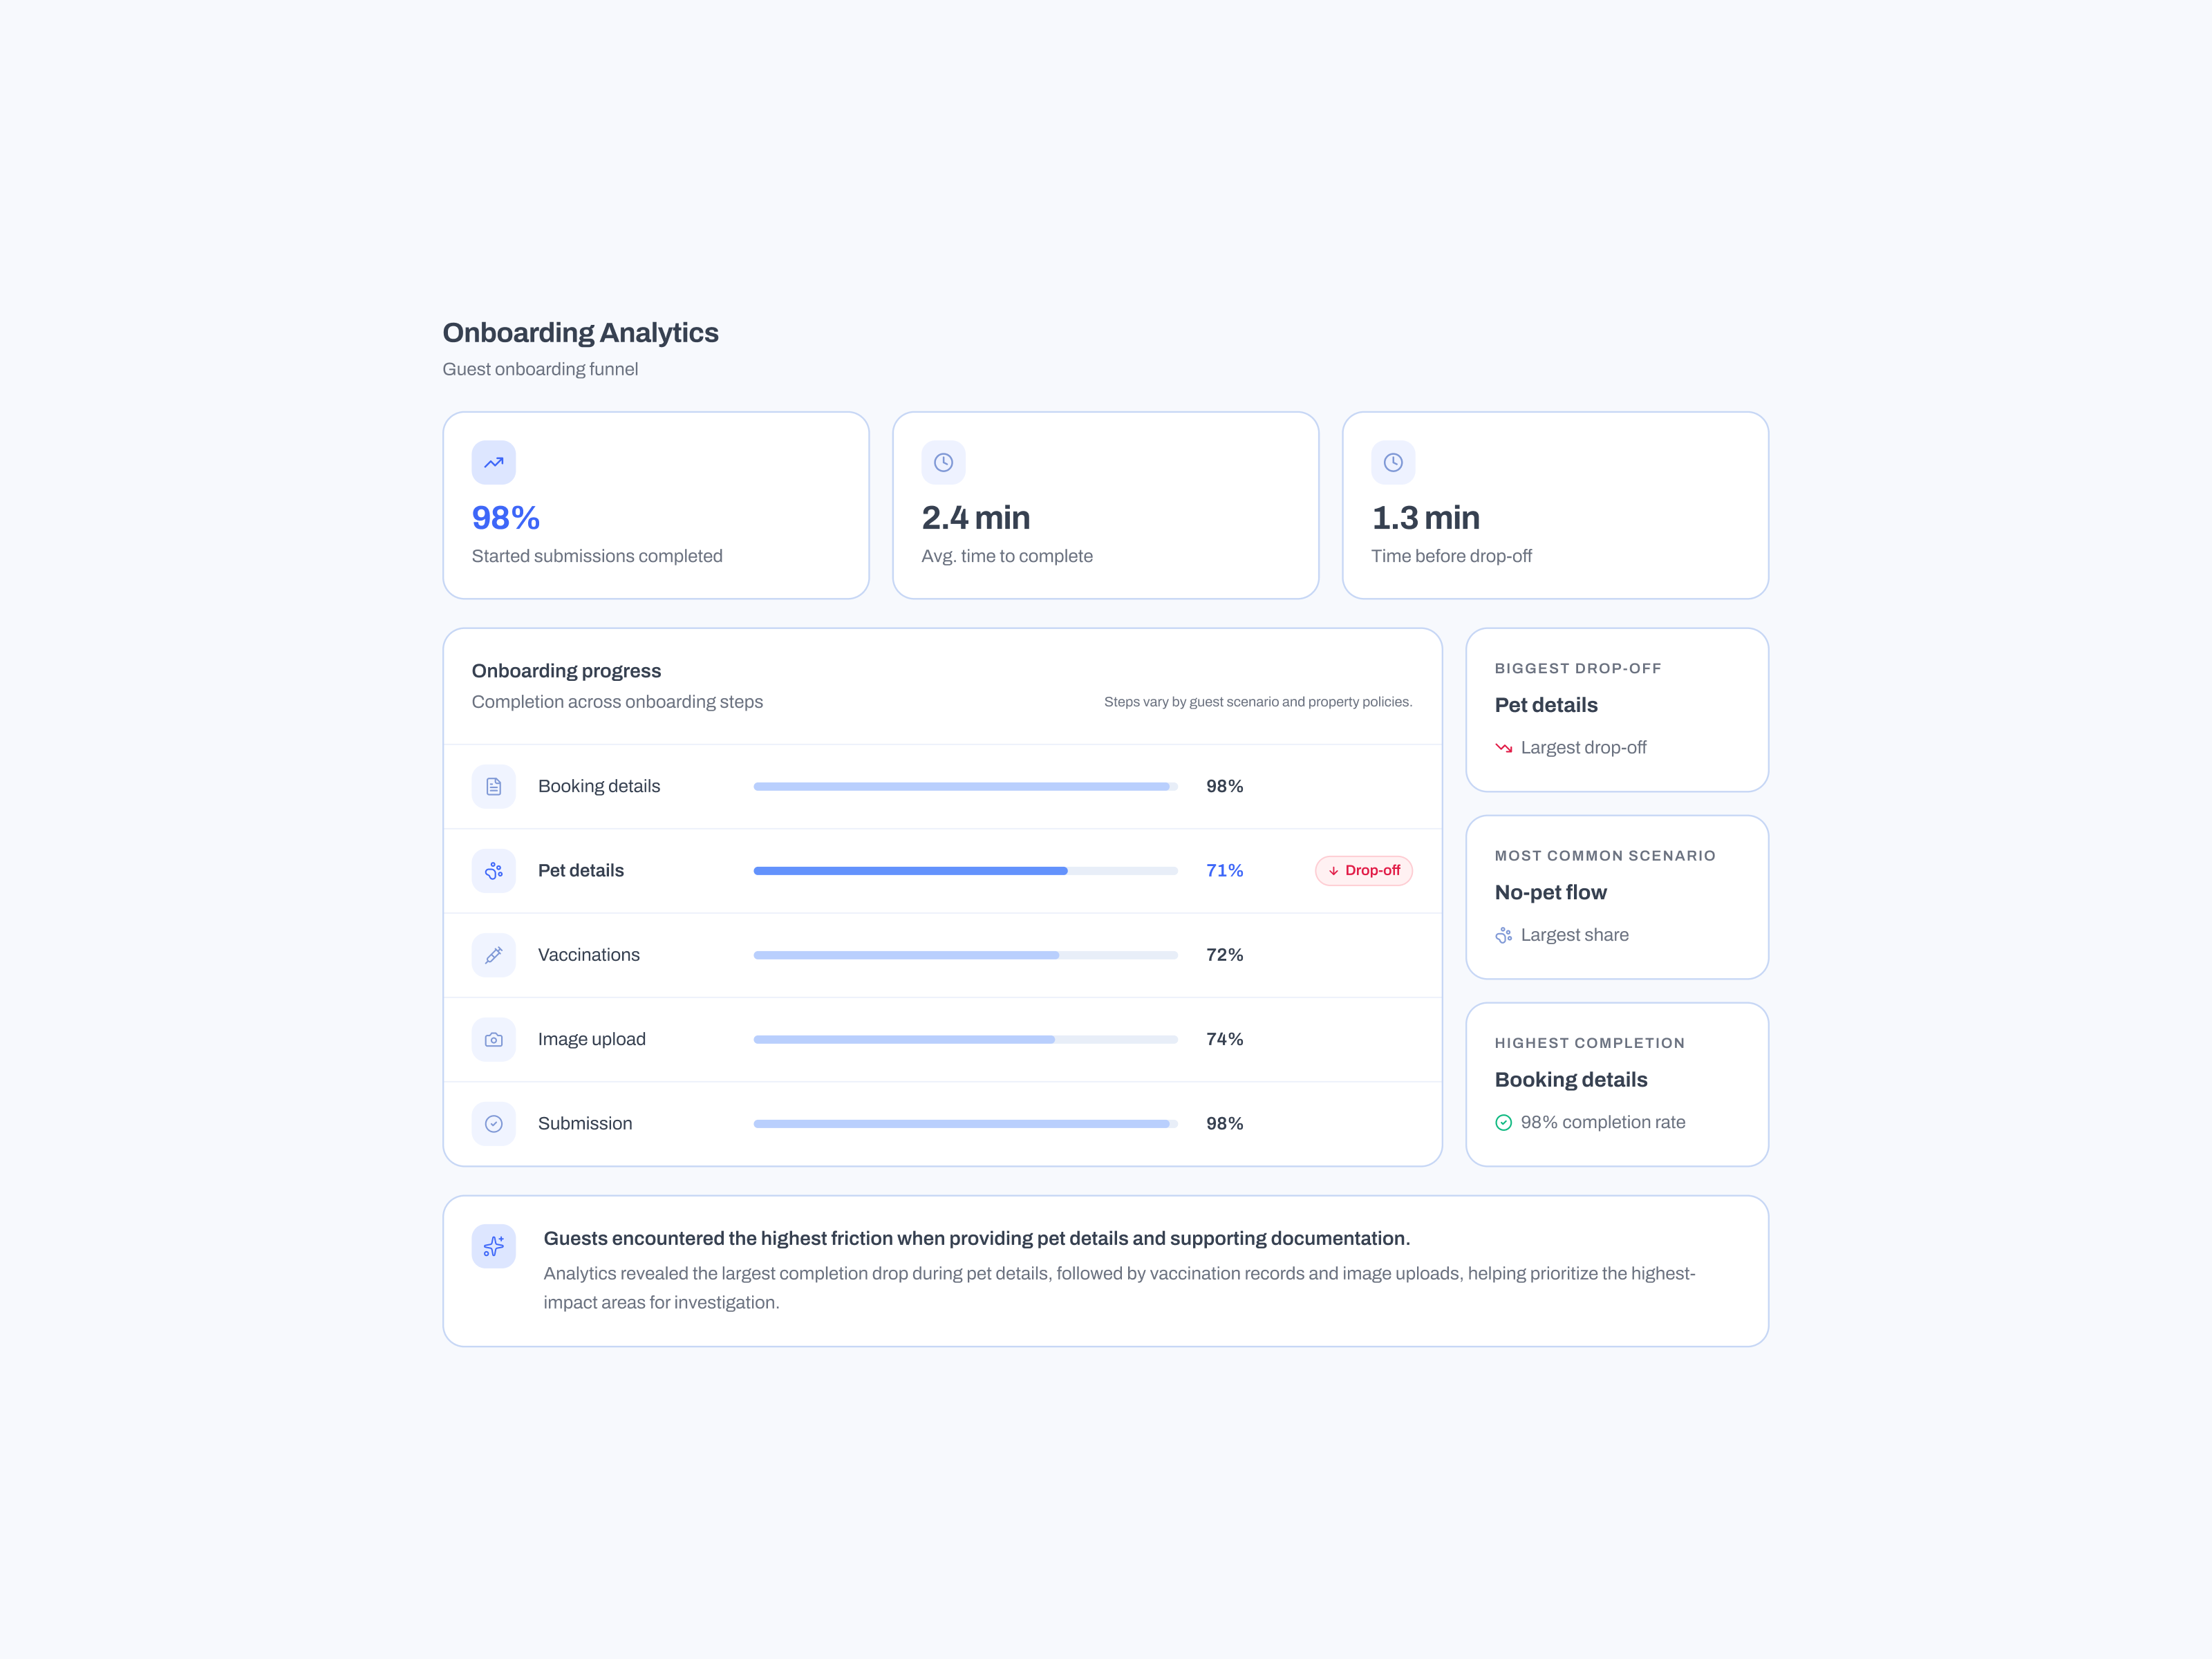
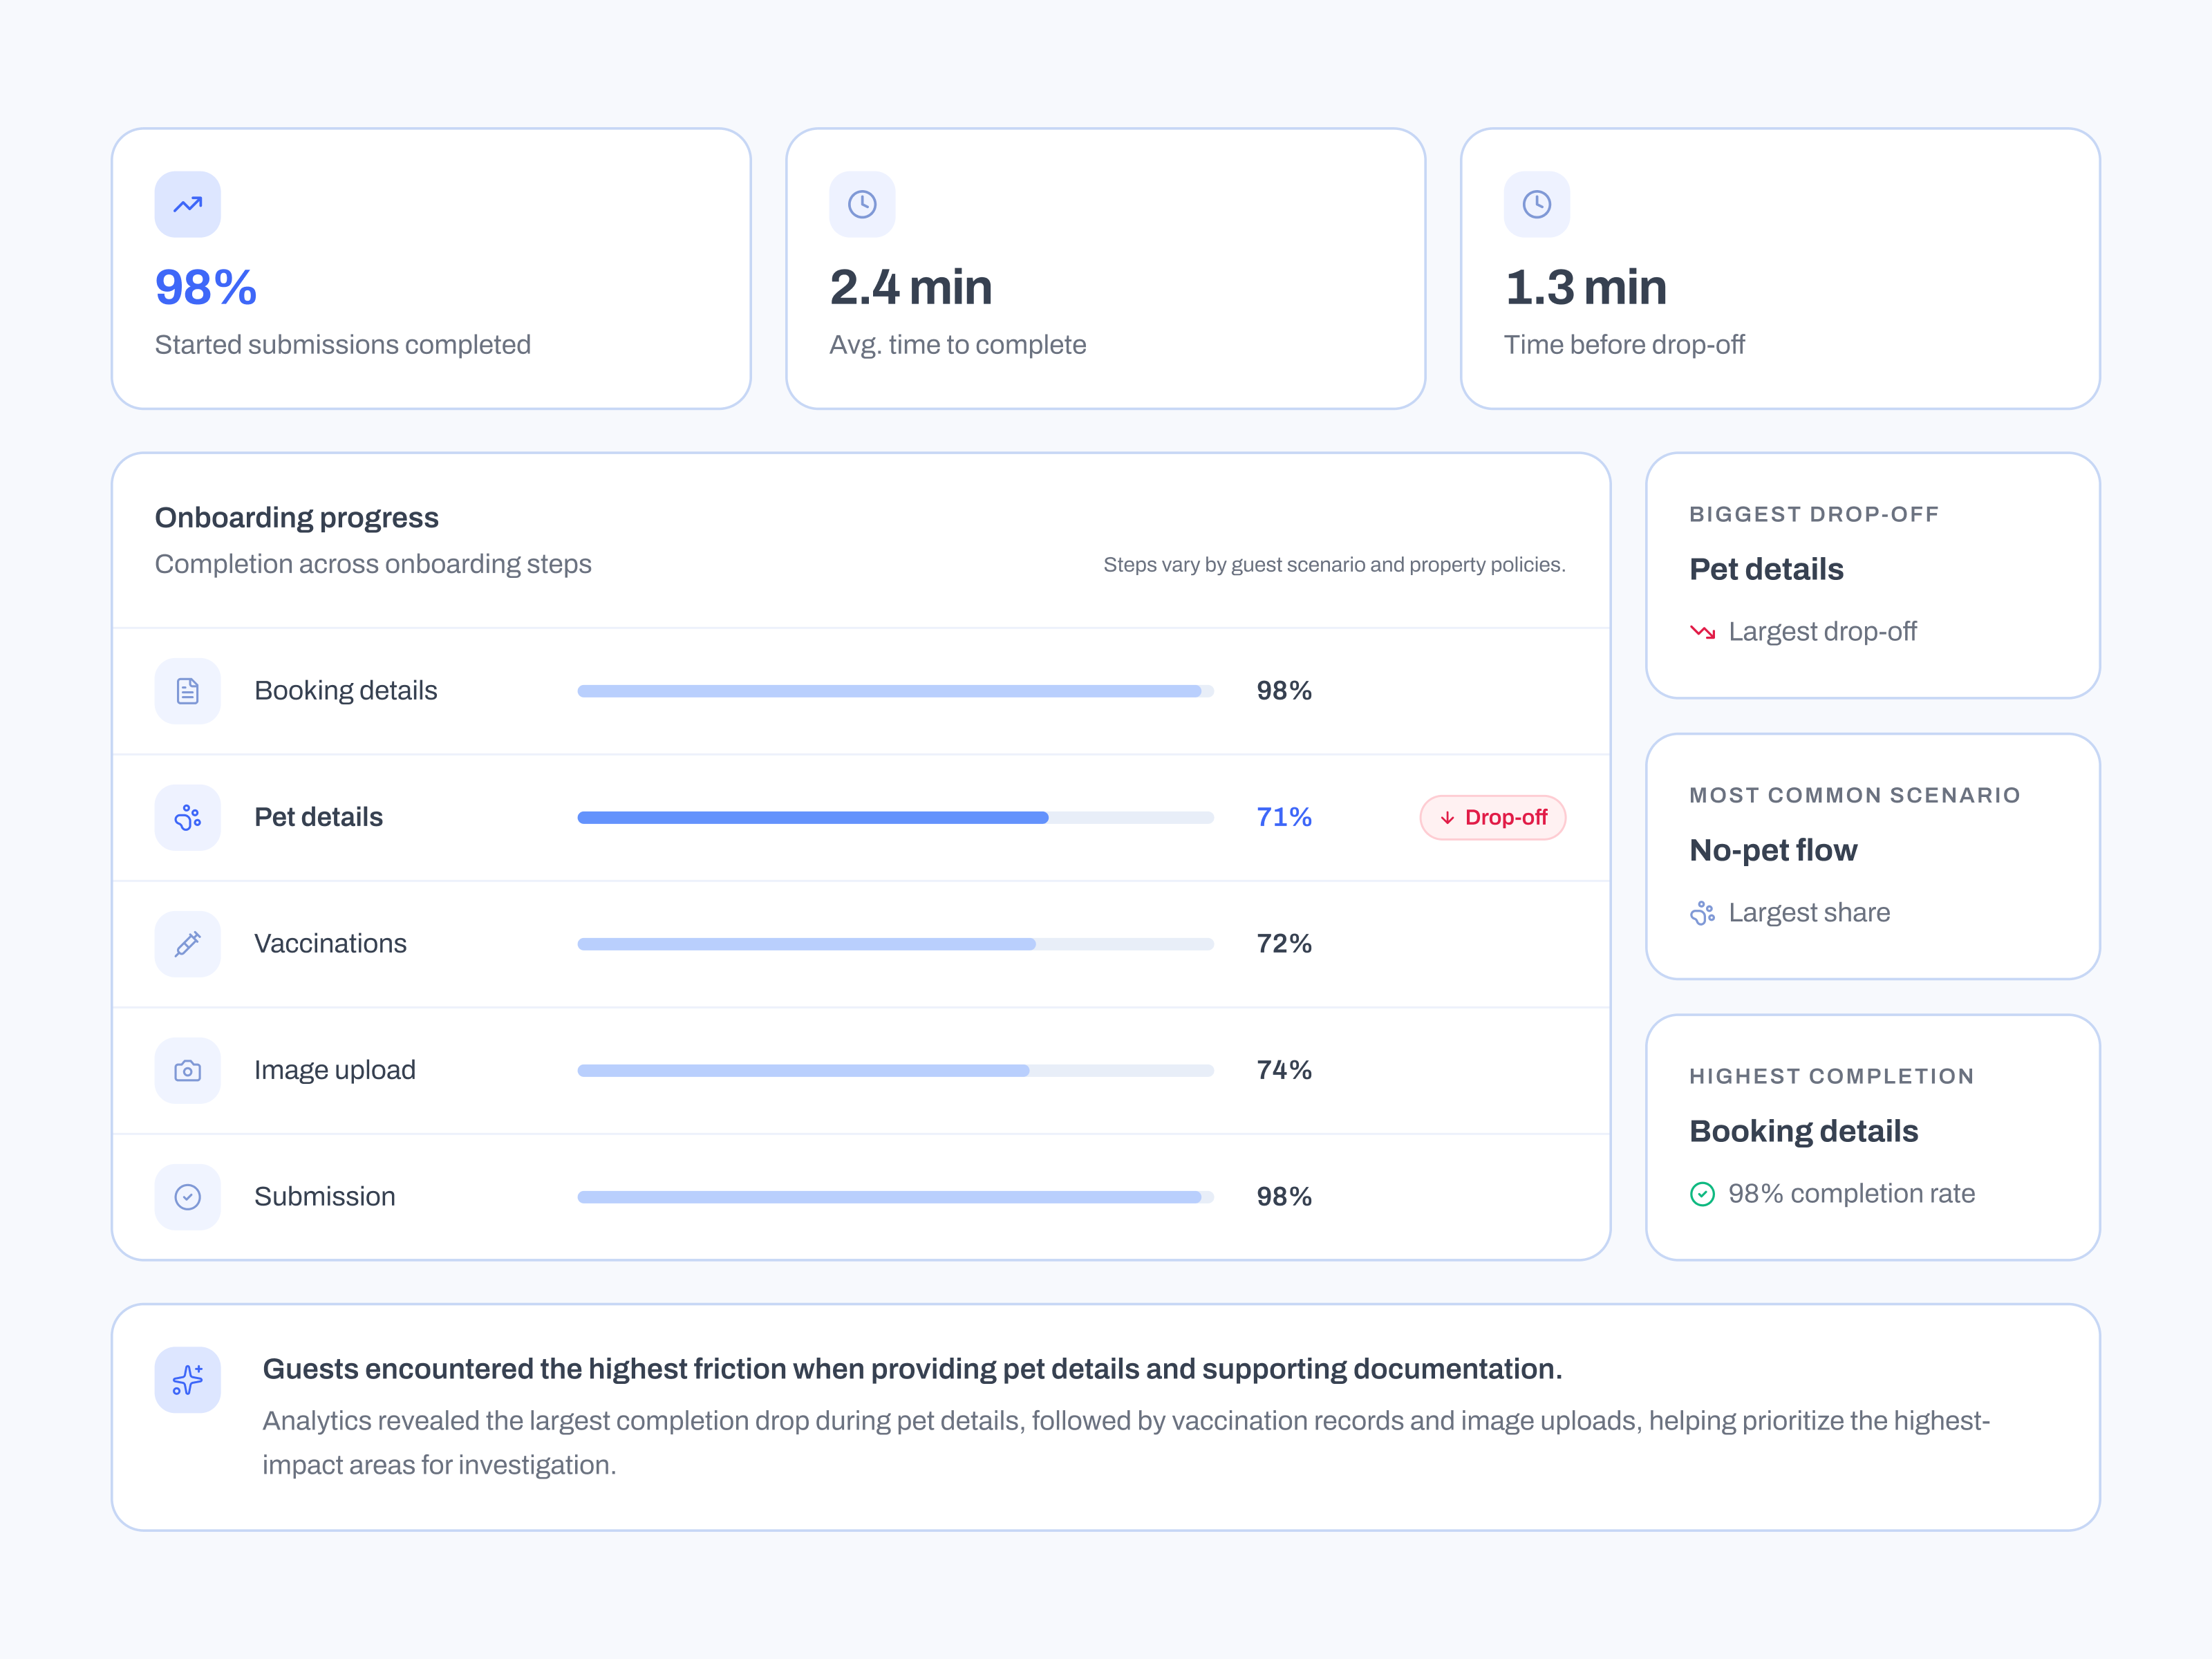
Add second Approach image and fix Problem & Context diagram asset
Wire up approach-diagram.png in the Approach section's second slot,
matching the first slot's sizing and treatment exactly. Replace the
Problem & Context diagram with the correct property-policy export
(previous upload was a mistaken duplicate of the approach diagram).

diff --git a/src/app/work/[slug]/page.tsx b/src/app/work/[slug]/page.tsx
@@ -248,7 +248,20 @@ export default async function CaseStudyPage({
             ) : (
               <ImagePlaceholder height="h-[200px] md:h-[300px]" gradient={project.accent} />
             )}
-            <ImagePlaceholder height="h-[200px] md:h-[300px]" gradient="from-slate-700 to-slate-800" />
+            {project.approachImage2 ? (
+              <div className="relative w-full aspect-[4/3] rounded-xl md:rounded-2xl overflow-hidden border border-slate-700">
+                <Image
+                  src={project.approachImage2}
+                  alt={`${project.title} approach diagram`}
+                  fill
+                  className="object-contain"
+                  sizes="(min-width: 768px) 50vw, 100vw"
+                  quality={90}
+                />
+              </div>
+            ) : (
+              <ImagePlaceholder height="h-[200px] md:h-[300px]" gradient="from-slate-700 to-slate-800" />
+            )}
           </div>
         </section>
 

diff --git a/src/lib/projects.ts b/src/lib/projects.ts
@@ -25,6 +25,7 @@ export type Project = {
     description: string;
   }[];
   approachImage?: string;
+  approachImage2?: string;
   solution: {
     heading: string;
     body: string;
@@ -111,6 +112,7 @@ export const projects: Project[] = [
       },
     ],
     approachImage: "/projects/betterpet-passport/approach-dashboard.png",
+    approachImage2: "/projects/betterpet-passport/approach-diagram.png",
     solution: {
       heading: "Designing for flexibility without increasing complexity",
       body: